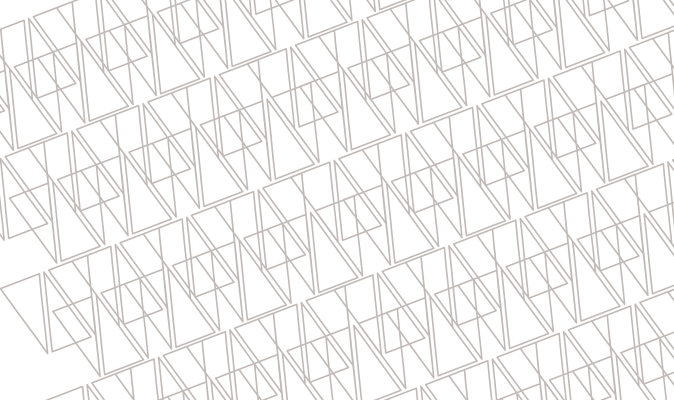
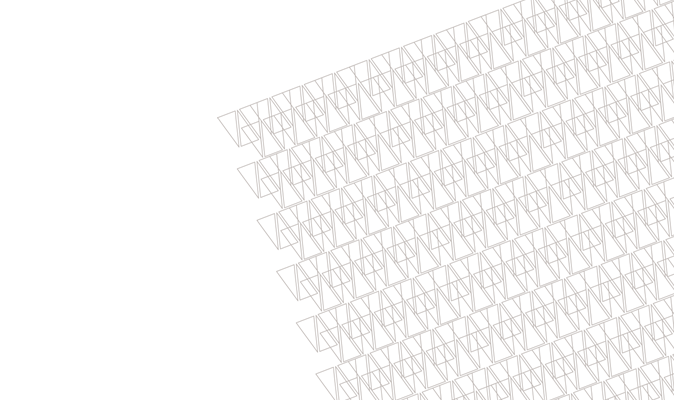
Previa pre conclusão - Ajustes background

diff --git a/site/index.html b/site/index.html
@@ -65,9 +65,9 @@
  </div>
 		 <div class="banner-bottom">
 		 	<div class="container">
-			 	<h2>Hello!</h2>
-			 	<h3>Lorem ipsum dolor consectetur adipiscing</h3>
-			 	<p>Sed ut perspiciatis unde omnis iste natus error sit voluptatem accusantium doloremque laudantium totam rem aperiam eaque inventore veritatis.</p>
+		 		<!-- <h2>Hello!</h2>
+		 		<h3>Lorem ipsum dolor consectetur adipiscing</h3>
+		 		<p>Sed ut perspiciatis unde omnis iste natus error sit voluptatem accusantium doloremque laudantium totam rem aperiam eaque inventore veritatis.</p> -->
 		       <div class="ban-mouse">
 		       	  <a href="#about"><span class="mouse"> </span></a>
 		       </div>
@@ -94,11 +94,7 @@
 <!--bann-info strat here-->
 <section class="seal">
 	<img src="images/seal.png" alt="">
-<<<<<<< HEAD
-	<span>#designereequintenamedidacerta</span>
-=======
 	<span><strong>#design</strong>e<strong>rerequinte</strong>na<strong>medida</strong>certa</span>
->>>>>>> f5737be7618b5960b2446d08d1045dc865824480
 </section>
 
 <div class="bann-info">

diff --git a/site/css/style.css b/site/css/style.css
@@ -211,6 +211,7 @@ span.mouse {
 }
 .seal span strong{
     font-family: 'champagne__limousinesbold';
+    font-weight: 400;
 }
 /*--banner end here--*/
 /*--bann-info start here--*/
@@ -220,8 +221,7 @@ span.mouse {
   background-size: cover;
 }
 .bann-info-right {
-  background-image:url(../images/bg-box.png);
-  background-position: right;
+  background-image:url("../images/bg-box.png");
   text-align: center;
   padding: 8em 0em 0em 0em;
   background: #ffcb05;
